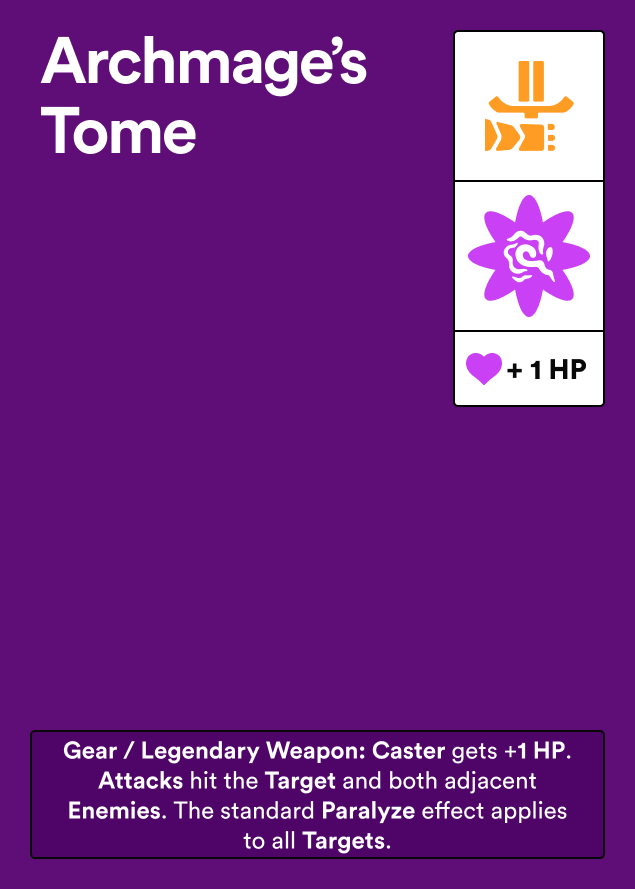
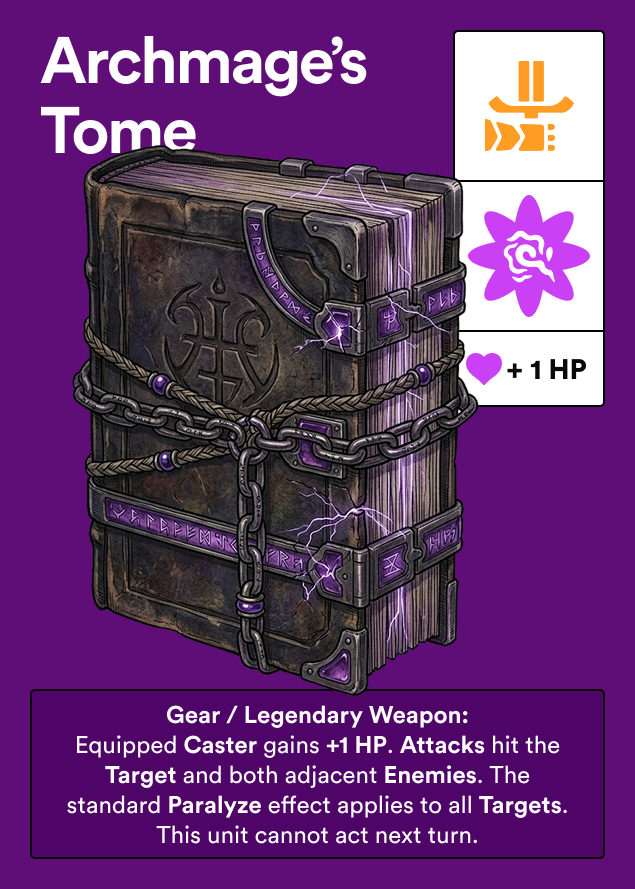
refactor(items): rename three legendary weapons and swap artwork
Renames the class-specific promotion cards so the names reflect the
weapon being granted, and replaces their artwork:

  Champion's Crest      -> Champion's Gauntlets   (Brawler)
  Vanguard Lance        -> Vanguard Glaive        (Lancer)
  Sharpshooter's Scope  -> Recurve Master Bow     (Shooter)
  Archmage's Tome       -> Archmage's Tome        (Caster, new art only)

Touches every runtime reference: ITEM_DECK_SPEC and ITEM_SPECS in
data.js; PROMOTION_ITEM_NAMES, range/counter checks, the true-strike
"ignores veteran effect" log message, and the IMAGE_BY_NAME map in
game.js. Adds the four new asset files and removes the three old ones.

Also updates DEV_LOG.md so historical Phase 13 / R2 QA references
match current names; older design-documentation files (RULES.md,
ROADMAP.md, EFFECTS_TECHNICAL_REFERENCE.md, QA notes, feature specs)
are intentionally left as-is.

diff --git a/game.js b/game.js
@@ -1502,7 +1502,7 @@
   const CARD_INDEX_ITEM_ORDER = [
     'Light Armor', 'Premium Light Armor', 'Heavy Armor',
     'True-Strike Lens', 'Barbed Gauntlets', 'Wardstone Bracelet', 'Teleport Boots',
-    "Champion's Crest", 'Vanguard Lance', "Sharpshooter's Scope", "Archmage's Tome",
+    "Champion's Gauntlets", 'Vanguard Glaive', "Recurve Master Bow", "Archmage's Tome",
     'Healing Potion', 'Corrosive Phial', 'Tectonic Spike', 'All revealing lantern-jar',
     'Tangle-Vine Bola', 'Obscuring bomb', 'Vorpal Honing Amulet', 'Magic Grenade',
     'Elevated Ground', 'Reinforced Barricade', 'Paralyzing Vines', 'Divine Light', 'Unstable Ground',
@@ -1923,7 +1923,7 @@
   }
 
   var ACCESSORY_ITEM_NAMES = ['Barbed Gauntlets', 'Wardstone Bracelet', 'Teleport Boots', 'True-Strike Lens'];
-  var PROMOTION_ITEM_NAMES = ["Champion's Crest", 'Vanguard Lance', "Sharpshooter's Scope", "Archmage's Tome"];
+  var PROMOTION_ITEM_NAMES = ["Champion's Gauntlets", 'Vanguard Glaive', "Recurve Master Bow", "Archmage's Tome"];
   var GEAR_EQUIP_ITEM_NAMES = ['Light Armor', 'Premium Light Armor', 'Heavy Armor'].concat(ACCESSORY_ITEM_NAMES).concat(PROMOTION_ITEM_NAMES);
 
   function getTerrain(player, col) {
@@ -1962,13 +1962,13 @@
     return false;
   }
 
-  /** Range check using attCell so promotions (Champion's Crest, Vanguard Lance) and Magic Grenade apply. */
+  /** Range check using attCell so promotions (Champion's Gauntlets, Vanguard Glaive) and Magic Grenade apply. */
   function isInRangeWithCell(attackerCol, defenderCol, attCell) {
     if (!attCell) return false;
     if (attCell.nextAttackAsCaster) return true;
     const d = Math.abs(defenderCol - attackerCol);
-    if (attCell.unit.class === 'Brawler' && cellHasGearName(attCell, "Champion's Crest")) return d <= 1;
-    if (attCell.unit.class === 'Lancer' && cellHasGearName(attCell, 'Vanguard Lance')) return d >= 1 && d <= 2;
+    if (attCell.unit.class === 'Brawler' && cellHasGearName(attCell, "Champion's Gauntlets")) return d <= 1;
+    if (attCell.unit.class === 'Lancer' && cellHasGearName(attCell, 'Vanguard Glaive')) return d >= 1 && d <= 2;
     return isInRange(attackerCol, defenderCol, attCell.unit.class);
   }
 
@@ -2003,7 +2003,7 @@
   function isCounterRangeForLancerCell(attackerCol, lancerCol, lancerCell) {
     if (!lancerCell) return false;
     const dist = Math.abs(attackerCol - lancerCol);
-    return cellHasGearName(lancerCell, 'Vanguard Lance') ? (dist >= 1 && dist <= 2) : (dist === 1);
+    return cellHasGearName(lancerCell, 'Vanguard Glaive') ? (dist >= 1 && dist <= 2) : (dist === 1);
   }
 
   function findAdjacentAllyLancerCols(player, col) {
@@ -2257,7 +2257,7 @@
     const isScopePacket  = !!opts.scopeIgnoresDefenderVeterancy;
     const hasDefenderPassive = hasVeteranBuff(defCell, 'senya') || hasVeteranBuff(defCell, 'iktha') || hasVeteranBuff(defCell, 'mivara');
     if ((isVorpalPacket || isScopePacket) && hasDefenderPassive) {
-      log((isVorpalPacket ? "Vorpal Honing Amulet" : "Sharpshooter's Scope") + " — ignores " + defCell.unit.name + "'s veteran effect.");
+      log((isVorpalPacket ? "Vorpal Honing Amulet" : "Recurve Master Bow") + " — ignores " + defCell.unit.name + "'s veteran effect.");
       return result;
     }
 
@@ -3077,9 +3077,9 @@
     'Paralyzing Vines': 'Terrain - Paralyzing Vines.png',
     'Divine Light': 'Terrain - Divine Light.png',
     'Unstable Ground': 'Terrain - Unstable Ground.png',
-    "Champion's Crest": 'Promotion - Champions Crest.png',
-    'Vanguard Lance': 'Promotion - Vanguard Lance.png',
-    "Sharpshooter's Scope": 'Promotion - Sharpshooters Scope.png',
+    "Champion's Gauntlets": 'Promotion - Champions Gauntlets.png',
+    'Vanguard Glaive': 'Promotion - Vanguard Glaive.png',
+    "Recurve Master Bow": 'Promotion - Recurve Master Bow.png',
     "Archmage's Tome": 'Promotion - Archmages Tome.png',
   };
 
@@ -6178,7 +6178,7 @@
     const attackContext = { harlundUsed: false, harlundDeclineLogged: false, harlundPromptResolved: false, harlundDecision: 'no' };
     const vorpalPacket = (state.vorpalNextAttack === attackerPlayer);
     const isLensStrike  = !vorpalPacket && cellHasGearName(attCell, 'True-Strike Lens') && (attCell.unit.class === 'Shooter' || attCell.unit.class === 'Caster');
-    const isScopeStrike = !vorpalPacket && cellHasGearName(attCell, "Sharpshooter's Scope") && attCell.unit.class === 'Shooter';
+    const isScopeStrike = !vorpalPacket && cellHasGearName(attCell, "Recurve Master Bow") && attCell.unit.class === 'Shooter';
     const trueStrike          = vorpalPacket || isLensStrike || isScopeStrike;
     const bypassAllCounters   = vorpalPacket || isScopeStrike;
     const bypassVeteranEffects = vorpalPacket || isScopeStrike;

diff --git a/data.js b/data.js
@@ -69,9 +69,9 @@ const ITEM_DECK_SPEC = [
   { name: 'Paralyzing Vines', quantity: 2 },
   { name: 'Divine Light', quantity: 2 },
   { name: 'Unstable Ground', quantity: 2 },
-  { name: "Champion's Crest", quantity: 1 },
-  { name: 'Vanguard Lance', quantity: 1 },
-  { name: "Sharpshooter's Scope", quantity: 1 },
+  { name: "Champion's Gauntlets", quantity: 1 },
+  { name: 'Vanguard Glaive', quantity: 1 },
+  { name: 'Recurve Master Bow', quantity: 1 },
   { name: "Archmage's Tome", quantity: 1 },
 ];
 
@@ -130,9 +130,9 @@ const ITEM_SPECS = {
   'Paralyzing Vines': { type: 'terrain', effect: 'Flip a coin whenever a unit on this tile attempts to move or switch. On tails, the move fails.' },
   'Divine Light': { type: 'terrain', effect: 'Any unit placed on, moved to, or swapped to this tile is immediately flipped face-up.' },
   'Unstable Ground': { type: 'terrain', effect: 'Flip a coin every time a unit on this tile begins an attack (or attempts a Lancer counter). On tails, the attack is canceled.' },
-  "Champion's Crest": { type: 'promotion', effect: 'Promote a Brawler. The equipped unit gains +1 HP and can now attack forward and to both adjacent tiles.', allowedClasses: ['Brawler'], hpBonus: 1 },
-  'Vanguard Lance': { type: 'promotion', effect: 'Promote a Lancer. The equipped unit gains +1 HP and can now target diagonally and sideways (2 left, 2 right). Applies to counters, too.', allowedClasses: ['Lancer'], hpBonus: 1 },
-  "Sharpshooter's Scope": { type: 'promotion', effect: 'Promote a Shooter. The equipped unit gains +1 HP and all its attacks become true strikes, ignoring terrain-, item-, or unit-specific effects.', allowedClasses: ['Shooter'], hpBonus: 1 },
+  "Champion's Gauntlets": { type: 'promotion', effect: 'Promote a Brawler. The equipped unit gains +1 HP and can now attack forward and to both adjacent tiles.', allowedClasses: ['Brawler'], hpBonus: 1 },
+  'Vanguard Glaive': { type: 'promotion', effect: 'Promote a Lancer. The equipped unit gains +1 HP and can now target diagonally and sideways (2 left, 2 right). Applies to counters, too.', allowedClasses: ['Lancer'], hpBonus: 1 },
+  'Recurve Master Bow': { type: 'promotion', effect: 'Promote a Shooter. The equipped unit gains +1 HP and all its attacks become true strikes, ignoring terrain-, item-, or unit-specific effects.', allowedClasses: ['Shooter'], hpBonus: 1 },
   "Archmage's Tome": { type: 'promotion', effect: 'Promote a Caster. The equipped unit gains +1 HP and its attacks now affect the target and both adjacent enemy units (must rest 1 turn after attacking).', allowedClasses: ['Caster'], hpBonus: 1 },
 };
 

diff --git a/DEV_LOG.md b/DEV_LOG.md
@@ -467,9 +467,9 @@ Five single-use items disappeared from the hand without animation:
 
 **Order (early → late):**
 
-1. **True strike** (`trueStrike` in code): Vorpal Honing Amulet, True-Strike Lens (Shooter/Caster), Sharpshooter’s Scope (Shooter). Skips **entire** Lancer counter block (and attacker Unstable Ground, defender terrain per existing true-strike rules). Veteran “guaranteed counter” effects do **not** apply because no counter step runs — matches QA expectation.
+1. **True strike** (`trueStrike` in code): Vorpal Honing Amulet, True-Strike Lens (Shooter/Caster), Recurve Master Bow (Shooter). Skips **entire** Lancer counter block (and attacker Unstable Ground, defender terrain per existing true-strike rules). Veteran “guaranteed counter” effects do **not** apply because no counter step runs — matches QA expectation.
 2. **Braskin (Uncanny Block):** If the **attacker** is **adjacent** (same row, `|Δcol| === 1`) to an allied Braskin (Veteran), **no** enemy Lancer counter is attempted for that attack. Checked **before** any defending Lancer is selected. This **short-circuits** Rowka’s Twin Guard and Nyss’s Phantom Posture for that attack: no counter candidate, so no guaranteed counter. Intentional: Braskin is a hard “no counter” gate for qualifying attacks.
-3. **Otherwise:** Build all defending Lancers in counter range (respecting Vanguard Lance distance 1–2 vs 1), excluding Lancers with `cannotAttackNextTurn` (e.g. Tangle-Vine Bola).
+3. **Otherwise:** Build all defending Lancers in counter range (respecting Vanguard Glaive distance 1–2 vs 1), excluding Lancers with `cannotAttackNextTurn` (e.g. Tangle-Vine Bola).
 4. **Candidate selection:** If any candidate has a **guaranteed** counter (Rowka + adjacent ally Lancer, or Nyss face-down), that Lancer is chosen first; else **lowest column index** (left-to-right scan behavior).
 5. **Unstable Ground (Lancer’s tile):** Coin **before** the counter success coin. On **tails**, the counter attempt is canceled entirely — Rowka/Nyss “force heads” does **not** apply, because the attempt never reaches the counter flip. On **heads**, proceed to counter resolution.
 6. **Counter coin:** Rowka (Twin Guard) and Nyss (face-down) force **heads** on this flip (log lines distinguish). Nyss flips face-up when revealed for counter; if already face-up, Phantom Posture does not apply.
@@ -514,7 +514,7 @@ These run only when the attack **actually hits** the defender (not canceled by t
 
 - **Scope completed:** Senya (Hex Haze), Iktha (Magma Skin), Mivara (False Self) in `resolveCombat`, Harlund single-hit resolution, and `continueArchmageMulti` packet loop.
 - **Shared defender-passive resolver:** Added `resolveDefenderVeteranPacket(...)` so defender-passive behavior is consistent across normal single hits and Archmage packet hits.
-- **Vorpal gating (confirmed rule):** Only `Vorpal Honing Amulet` bypasses these defender passives; True-Strike Lens and Sharpshooter's Scope do not.
+- **Vorpal gating (confirmed rule):** Only `Vorpal Honing Amulet` bypasses these defender passives; True-Strike Lens and Recurve Master Bow do not.
 - **Iktha:** Destroys attacker gear before damage; logs both "gear destroyed" and "no gear to destroy" branches.
 - **Senya:** Coin flip on incoming hit; heads negates packet and reflects 1 damage to attacker. Added per-unit cooldown state (`senyaBlockNextTurn` / `senyaBlockedThisTurn`) refreshed at turn start via `refreshSenyaCooldownForTurn`.
 - **Mivara:** Coin flip on incoming hit; heads redirects packet to front enemy (same column, opposite row). If no front enemy exists, packet is fully voided (no damage to Mivara, no redirected damage).
@@ -525,7 +525,7 @@ These run only when the attack **actually hits** the defender (not canceled by t
 
 - **Current status:** QA intentionally paused to continue feature implementation; keep R2 QA open.
 - **Verified so far:** Senya core behavior/cooldown/Tival retry, Iktha geared+ungeared branches, Mivara heads/tails behavior + Tival retry, plus true-strike split **A1** (Vorpal ignore) and **A2** (True-Strike Lens does not ignore).
-- **Still pending:** Remaining R2 matrix, especially Wardstone ordering, Archmage multi-packet defender-passive interactions, A3 (`Sharpshooter's Scope` does not ignore), and quick counter/terrain ordering regression checks.
+- **Still pending:** Remaining R2 matrix, especially Wardstone ordering, Archmage multi-packet defender-passive interactions, A3 (`Recurve Master Bow` does not ignore), and quick counter/terrain ordering regression checks.
 - **Tracking doc:** [`QA_PHASE15_R2_LOG_TEMPLATE.md`](QA_PHASE15_R2_LOG_TEMPLATE.md).
 
 ### R3 Ardan (Veilstep) implementation (ready for QA)
@@ -574,23 +574,23 @@ These run only when the attack **actually hits** the defender (not canceled by t
 
 ## Phase 13 — Promotions
 
-**Scope:** Four promotion items (Champion's Crest, Vanguard Lance, Sharpshooter's Scope, Archmage's Tome). Equipped like other gear (one gear per unit; equipping replaces current gear). Each is class-specific, grants +1 HP, and modifies range or combat behavior.
+**Scope:** Four promotion items (Champion's Gauntlets, Vanguard Glaive, Recurve Master Bow, Archmage's Tome). Equipped like other gear (one gear per unit; equipping replaces current gear). Each is class-specific, grants +1 HP, and modifies range or combat behavior.
 
 **Implementations:**
 - **Data:** In `ITEM_SPECS`, each promotion has `type: 'promotion'`, `allowedClasses: [class]`, and `hpBonus: 1`. `getArmorHPBonus` and `getGearAllowedClasses` extended to support `type === 'promotion'`. Promotions added to `GEAR_EQUIP_ITEM_NAMES` (via `PROMOTION_ITEM_NAMES`). **Use button:** `buildItemCard` and `handleItemHandClick` include `spec.type === 'promotion'` so promotion cards show "Use" and enter targeting when `canPlayGear` is true.
-- **Champion's Crest (Brawler):** +1 HP. Attack range: same column and both adjacent (distance ≤ 1). Implemented via `isInRangeWithCell`: when Brawler has Crest, `d <= 1`.
-- **Vanguard Lance (Lancer):** +1 HP. Attack range: diagonal/sideways only — distance **1 or 2** (not 0). "Applies to counters, too": defender Lancer with Vanguard Lance can counter when attacker is at distance 1 or 2; normal Lancer counter range remains distance === 1. Lancer counter block loops all defender columns and uses `inCounterRange`: Vanguard ⇒ `dist >= 1 && dist <= 2`, else `dist === 1`.
-- **Sharpshooter's Scope (Shooter):** +1 HP. All attacks become true strikes: skip attacker Unstable Ground, Lancer counter block, defender Elevated/Reinforced terrain. Added to `trueStrike` in `resolveCombat`. Wardstone not bypassed. Barbed Gauntlets only on Brawler/Lancer hits.
+- **Champion's Gauntlets (Brawler):** +1 HP. Attack range: same column and both adjacent (distance ≤ 1). Implemented via `isInRangeWithCell`: when Brawler has Gauntlets, `d <= 1`.
+- **Vanguard Glaive (Lancer):** +1 HP. Attack range: diagonal/sideways only — distance **1 or 2** (not 0). "Applies to counters, too": defender Lancer with Vanguard Glaive can counter when attacker is at distance 1 or 2; normal Lancer counter range remains distance === 1. Lancer counter block loops all defender columns and uses `inCounterRange`: Vanguard ⇒ `dist >= 1 && dist <= 2`, else `dist === 1`.
+- **Recurve Master Bow (Shooter):** +1 HP. All attacks become true strikes: skip attacker Unstable Ground, Lancer counter block, defender Elevated/Reinforced terrain. Added to `trueStrike` in `resolveCombat`. Wardstone not bypassed. Barbed Gauntlets only on Brawler/Lancer hits.
 - **Archmage's Tome (Caster):** +1 HP. Attacks affect primary target and both adjacent enemy units (1 damage + paralyze each). **Per-target defenses:** Each of the three columns is resolved in sequence via `state.archmageMultiResolving` and `continueArchmageMulti()`. For each target: Reinforced Barricade (Caster) is checked per tile (coin flip; heads = that unit not hit). If the unit has Wardstone Bracelet, defender gets Use/No; Use negates that unit's hit only. `doWardstoneUse` / `doWardstoneNo` detect archmage multi and advance to the next target or call `finishArchmageMulti()`. **Rest:** Attacker gets `mustRestNextTurn = true` (separate from `cannotAttackNextTurn` so Tangle-Vine Bola is unchanged). `mustRestNextTurn` is cleared at **start** of that player's next turn (`startOfTurn`); unit is non-selectable and shows "Can't attack" until then. Magic Grenade (nextAttackAsCaster) stays single-target Caster; no Tome multi-target or rest.
 - **Range:** `isInRangeWithCell(attackerCol, defenderCol, attCell)` used in `canAttack`, attack-step highlighting, and attack target click; respects promotions and Magic Grenade.
 
 **Bug fixes (same phase):**
 - Promotion cards did not show "Use" button; added `spec.type === 'promotion'` to gear Use-button condition in `buildItemCard` and to `gearPlayable` in `handleItemHandClick`.
-- Vanguard Lance allowed attack/counter on the tile directly in front (distance 0); range restricted to `d >= 1 && d <= 2` for attack and counter.
+- Vanguard Glaive allowed attack/counter on the tile directly in front (distance 0); range restricted to `d >= 1 && d <= 2` for attack and counter.
 - Archmage's Tome rest was cleared at end of turn so the Caster could attack again next turn; introduced `mustRestNextTurn` (cleared at start of turn) and use it for Archmage rest; "Can't attack" badge and selectability check both flags.
 - Archmage's Tome multi-target did not trigger Wardstone or Reinforced Barricade for adjacent targets; implemented per-target resolution with Wardstone prompt and per-tile Reinforced Barricade check.
 
-**Files touched:** `data.js` (promotion `allowedClasses`, `hpBonus`), `game.js` (gear helpers, `PROMOTION_ITEM_NAMES`, `isInRangeWithCell`, Vanguard range, Lancer counter range, trueStrike Scope, Archmage multi-target, `continueArchmageMulti` / `finishArchmageMulti`, `mustRestNextTurn`, Wardstone handlers, Use button for promotion), `ROADMAP.md`, `DEV_LOG.md`.
+**Files touched:** `data.js` (promotion `allowedClasses`, `hpBonus`), `game.js` (gear helpers, `PROMOTION_ITEM_NAMES`, `isInRangeWithCell`, Vanguard Glaive range, Lancer counter range, Recurve Master Bow true-strike, Archmage multi-target, `continueArchmageMulti` / `finishArchmageMulti`, `mustRestNextTurn`, Wardstone handlers, Use button for promotion), `ROADMAP.md`, `DEV_LOG.md`.
 
 ---
 
